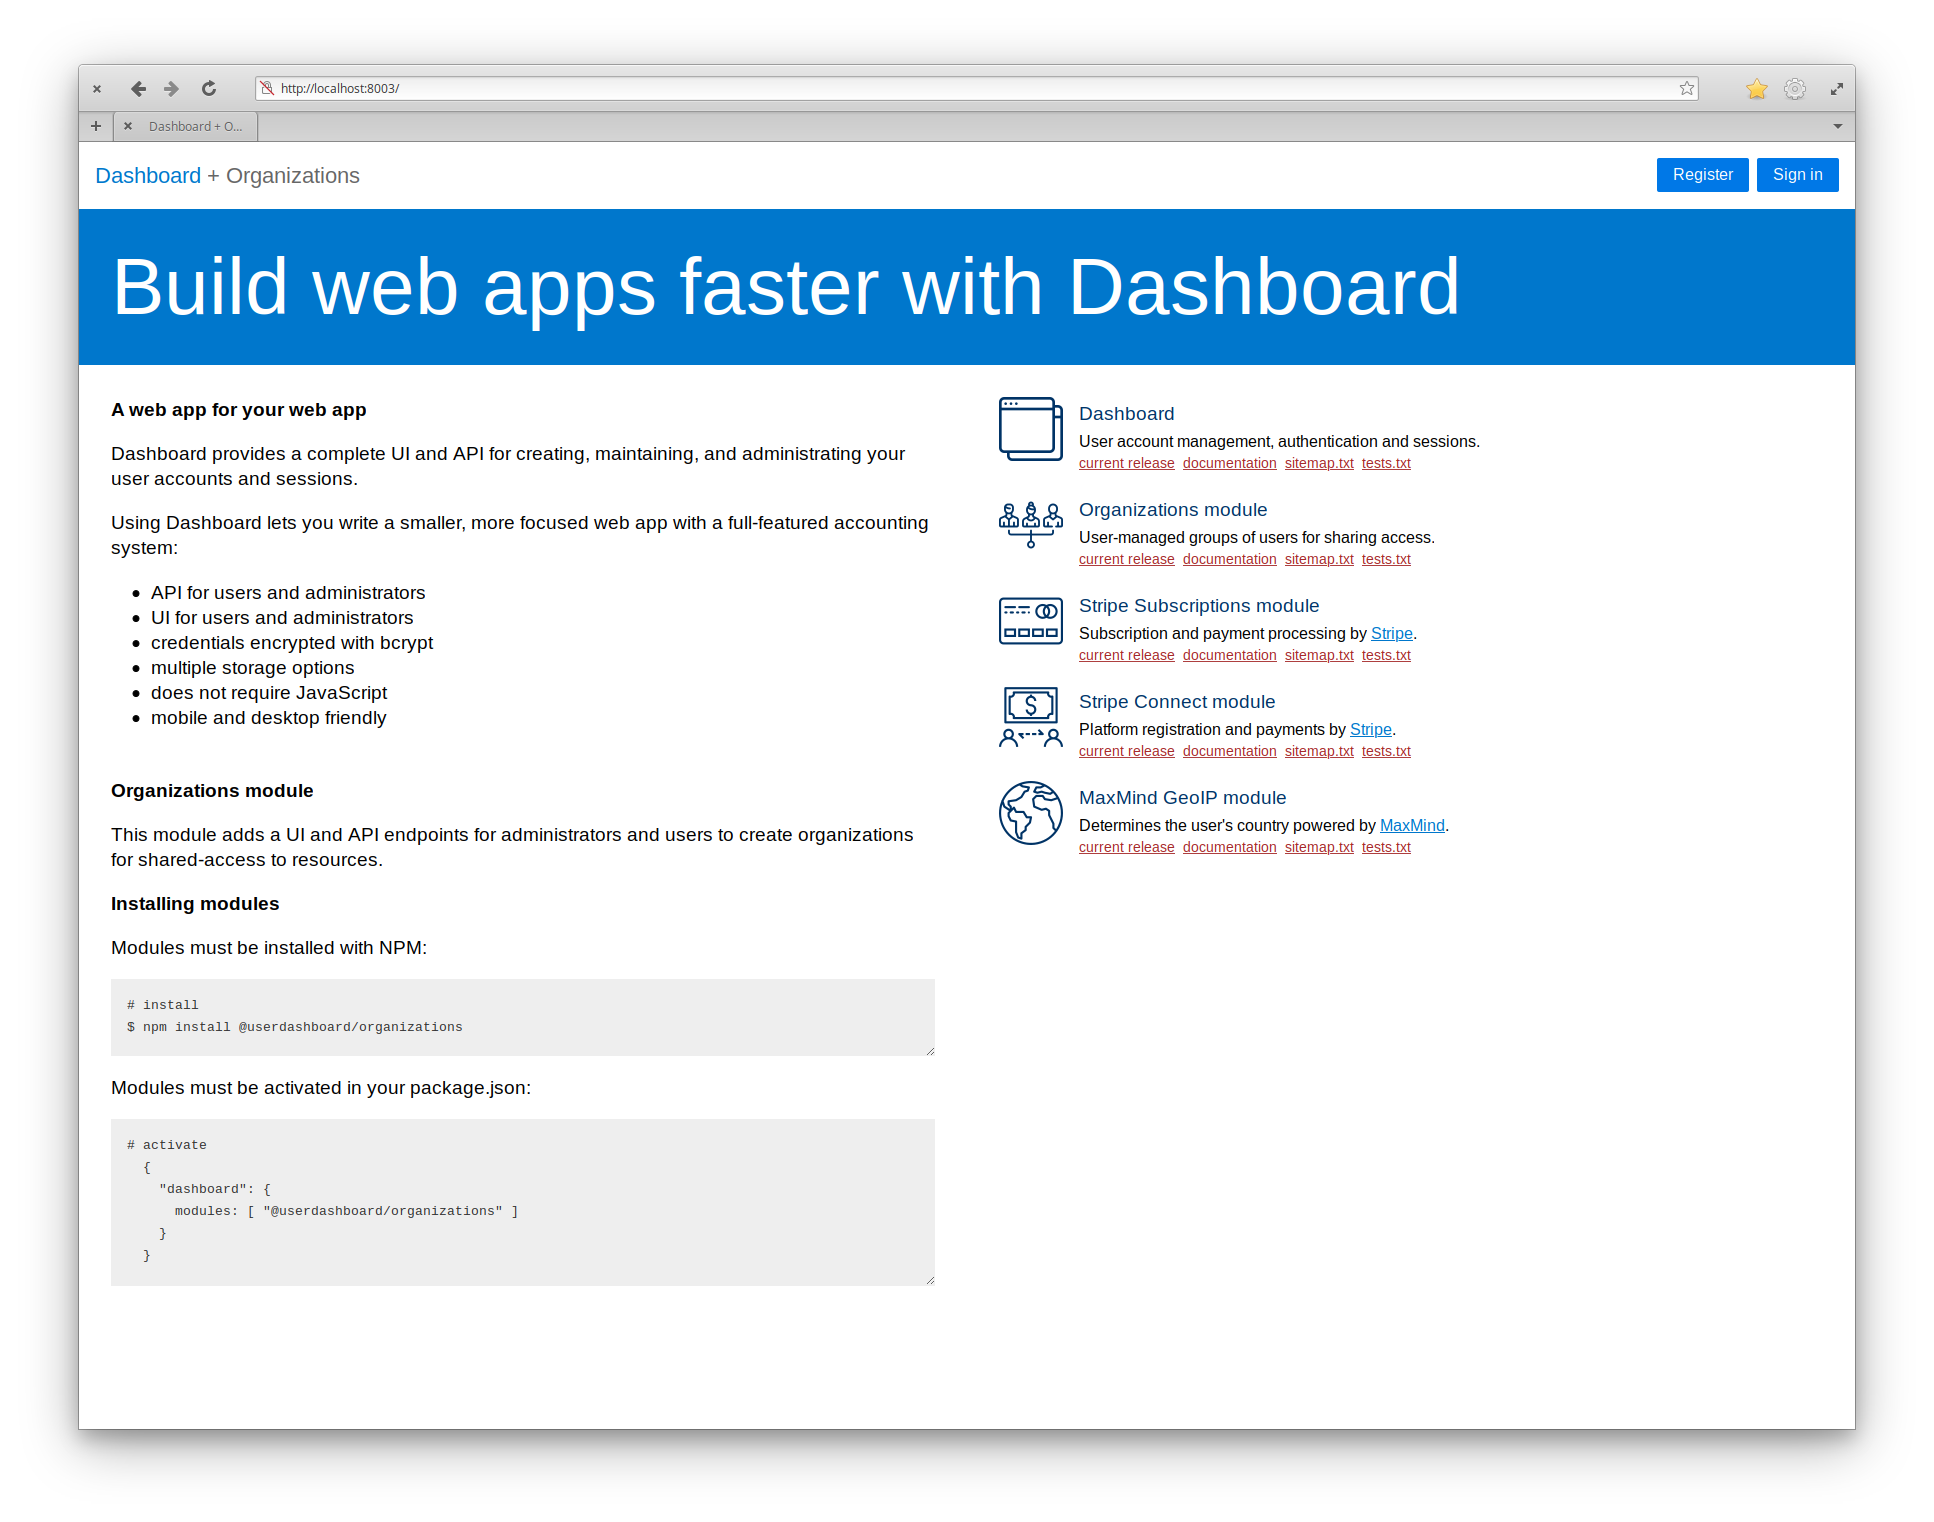
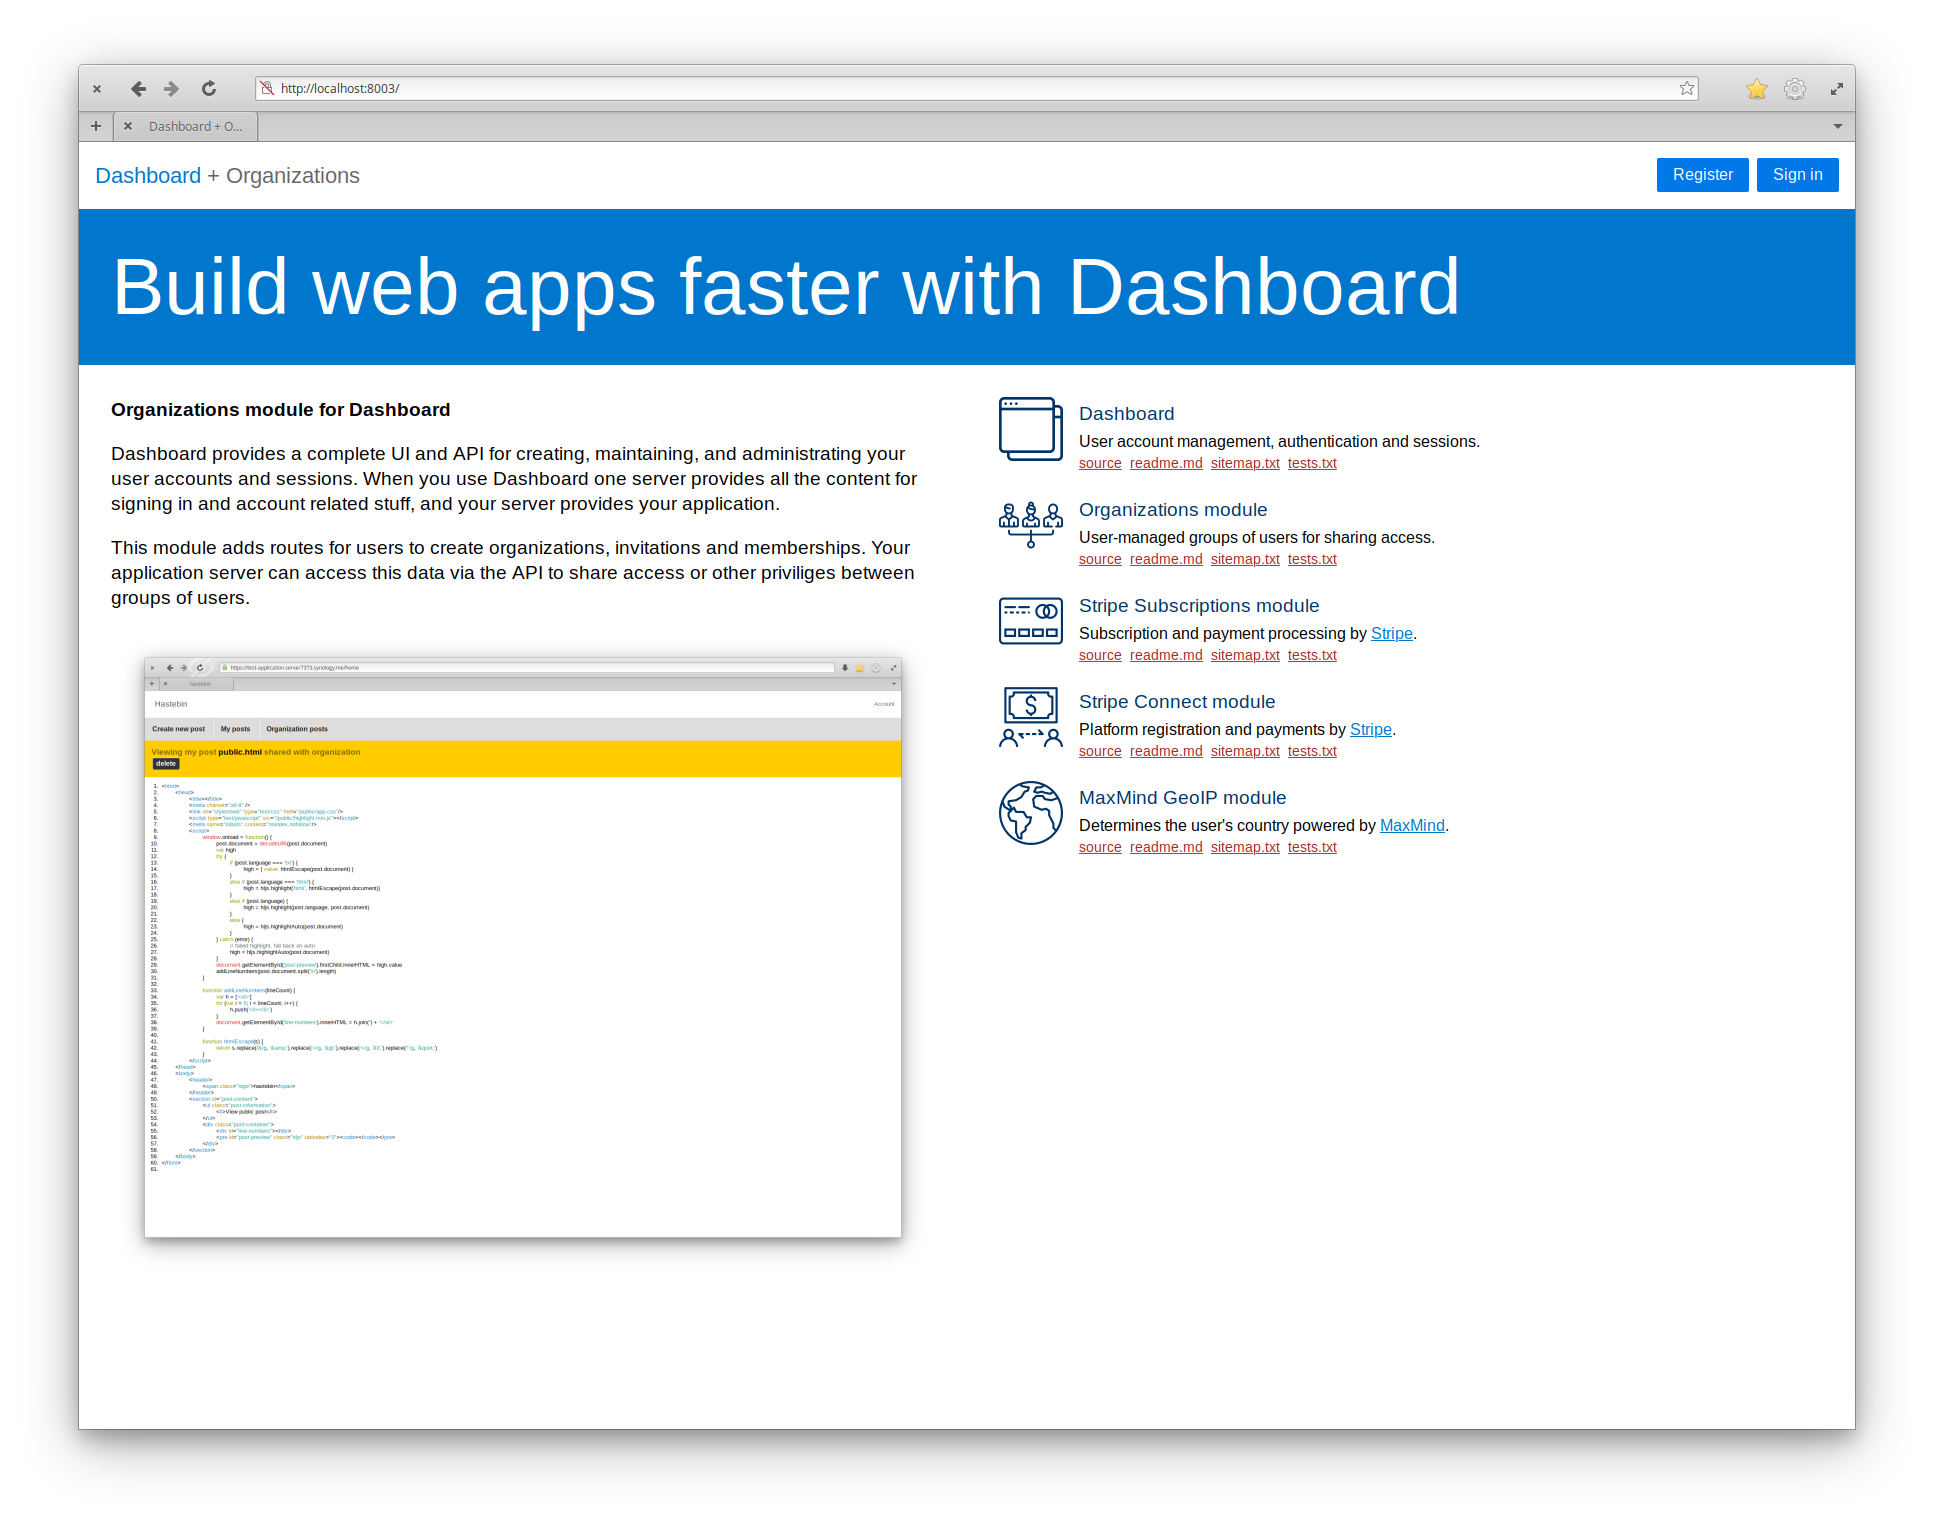
Updated documentation and demo index page

diff --git a/src/www/index.html b/src/www/index.html
@@ -46,31 +46,10 @@
     <div class="pure-g">
       <div class="pure-u-1-2">
         <div class="information">
-          <h3>A web app for your web app</h3>
-          <p>Dashboard provides a complete UI and API for creating, maintaining, and administrating your user accounts and sessions.</p>
-          <p>Using Dashboard lets you write a smaller, more focused web app with a full-featured accounting system:</p>
-          <ul>
-            <li>API for users and administrators</li>
-            <li>UI for users and administrators</li>
-            <li>credentials encrypted with bcrypt</li>
-            <li>multiple storage options</li>
-            <li>does not require JavaScript</li>
-            <li>mobile and desktop friendly</li>
-          </ul>
-          <h3>Organizations module</h3>
-          <p>This module adds a UI and API endpoints for administrators and users to create organizations for shared-access to resources.</p>
-
-          <h3>Installing modules</h3>
-          <p>Modules must be installed with NPM:</p>
-          <div class="code dashboard"><textarea># install
-$ npm install @userdashboard/organizations</textarea></div>
-          <p>Modules must be activated in your package.json:</p>
-<div class="code package"><textarea># activate
-  {
-    "dashboard": {
-      modules: [ "@userdashboard/organizations" ]
-    }
-  }</textarea></div>
+          <h3>Organizations module for Dashboard</h3>
+          <p>Dashboard provides a complete UI and API for creating, maintaining, and administrating your user accounts and sessions. When you use Dashboard one server provides all the content for signing in and account related stuff, and your server provides your application.</p>
+          <p>This module adds routes for users to create organizations, invitations and memberships.  Your application server can access this data via the API to share access or other priviliges between groups of users.</p>
+          <img style="max-width: 100%" src="/public/0-example-app.png" />
         </div>
       </div>
       <div class="pure-u-1-2">
@@ -82,8 +61,8 @@ $ npm install @userdashboard/organizations</textarea></div>
                 <h3>Dashboard</h3>
                 <p>User account management, authentication and sessions.</p>
                 <div>
-                  <a href="https://github.com/userdashboard/dashboard">current release</a>
-                  <a href="https://github.com/userdashboard/dashboard/wiki">documentation</a>
+                  <a href="https://github.com/userdashboard/dashboard">source</a>
+                  <a href="https://github.com/userdashboard/dashboard/blob/master/readme.md">readme.md</a>
                   <a href="https://github.com/userdashboard/dashboard/blob/master/sitemap.txt">sitemap.txt</a>
                   <a href="https://github.com/userdashboard/dashboard/blob/master/tests.txt">tests.txt</a>
                 </div>
@@ -95,8 +74,8 @@ $ npm install @userdashboard/organizations</textarea></div>
                 <h3>Organizations module</h3>
                 <p>User-managed groups of users for sharing access.</p>
                 <div>
-                    <a href="https://github.com/userdashboard/organizations">current release</a>
-                    <a href="https://github.com/userdashboard/organizations/wiki">documentation</a>
+                    <a href="https://github.com/userdashboard/organizations">source</a>
+                    <a href="https://github.com/userdashboard/organizations/blob/master/readme.md">readme.md</a>
                     <a href="https://github.com/userdashboard/organizations/blob/master/sitemap.txt">sitemap.txt</a>
                     <a href="https://github.com/userdashboard/organizations/blob/master/tests.txt">tests.txt</a>
                 </div>
@@ -108,8 +87,8 @@ $ npm install @userdashboard/organizations</textarea></div>
                 <h3>Stripe Subscriptions module</h3>
                 <p>Subscription and payment processing by <a href="https://stripe.com">Stripe</a>.</p>
                 <div>
-                    <a href="https://github.com/userdashboard/stripe-subscriptions">current release</a>
-                    <a href="https://github.com/userdashboard/stripe-subscriptions/wiki">documentation</a>
+                    <a href="https://github.com/userdashboard/stripe-subscriptions">source</a>
+                    <a href="https://github.com/userdashboard/stripe-subscriptions/blob/master/readme.md">readme.md</a>
                     <a href="https://github.com/userdashboard/stripe-subscriptions/blob/master/sitemap.txt">sitemap.txt</a>
                     <a href="https://github.com/userdashboard/stripe-subscriptions/blob/master/tests.txt">tests.txt</a>
                 </div>
@@ -121,8 +100,8 @@ $ npm install @userdashboard/organizations</textarea></div>
                 <h3>Stripe Connect module</h3>
                 <p>Platform registration and payments by <a href="https://stripe.com">Stripe</a>.</p>
                 <div>
-                    <a href="https://github.com/userdashboard/stripe-connect">current release</a>
-                    <a href="https://github.com/userdashboard/stripe-connect/wiki">documentation</a>
+                    <a href="https://github.com/userdashboard/stripe-connect">source</a>
+                    <a href="https://github.com/userdashboard/stripe-connect/blob/master/readme.md">readme.md</a>
                     <a href="https://github.com/userdashboard/stripe-connect/blob/master/sitemap.txt">sitemap.txt</a>
                     <a href="https://github.com/userdashboard/stripe-connect/blob/master/tests.txt">tests.txt</a>
                 </div>
@@ -134,8 +113,8 @@ $ npm install @userdashboard/organizations</textarea></div>
                 <h3>MaxMind GeoIP module</h3>
                 <p>Determines the user's country powered by <a href="https://maxmind.com">MaxMind</a>.</p>
                 <div>
-                  <a href="https://github.com/userdashboard/maxmind-geoip">current release</a>
-                  <a href="https://github.com/userdashboard/maxmind-geoip/wiki">documentation</a>
+                  <a href="https://github.com/userdashboard/maxmind-geoip">source</a>
+                  <a href="https://github.com/userdashboard/maxmind/geoip/blob/master/readme.md">readme.md</a>
                   <a href="https://github.com/userdashboard/maxmind-geoip/blob/master/sitemap.txt">sitemap.txt</a>
                   <a href="https://github.com/userdashboard/maxmind-geoip/blob/master/tests.txt">tests.txt</a>
                 </div>
